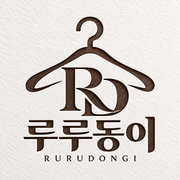
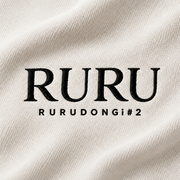
루루동이 자동 안내 — 닉네임 「루루동이」(AI 표시는 배지로)·프로필 사진 RURU 자수 로고 · 앱 아이콘(홈 화면·탭·애플) RURU 로고로, 파일 이름 바꿔 설치한 폰도 새 아이콘 받게
Claude-Session: https://claude.ai/code/session_01TQMBEC9h6c1TahmvDRkCND

diff --git a/app/manifest.ts b/app/manifest.ts
@@ -4,6 +4,7 @@ import type { MetadataRoute } from "next";
 //   근거: MDN 「Define your app icons」 + web app manifest 스펙 + evilmartians 「How to Favicon in 2026」(직접 확인).
 //   아이콘 파일은 app/ 폴더 규칙(favicon.ico · icon.svg · apple-icon.png)으로 자동 연결되고,
 //   [2026-10-23 사장님] 홈 화면 아이콘 = 새 루루동이 로고(옷걸이 RD·종이 바탕). 192/512/maskable(안전영역 82%)·apple-icon 180·favicon 모두 같은 그림.
+//   [2026-11-10 사장님] 아이콘 = RURU 자수 로고(RURUDONGi#2). 파일 이름을 icon-v2-* 로 바꿔 크롬이 «바뀐 아이콘»으로 알아보게.
 //   이미 추가한 손님: 안드로이드 크롬은 며칠 안에 새 아이콘으로 자동 갱신, 아이폰은 지우고 다시 추가해야 바뀐다.
 export default function manifest(): MetadataRoute.Manifest {
   return {
@@ -26,15 +27,15 @@ export default function manifest(): MetadataRoute.Manifest {
     theme_color: "#FFFFFF",
     categories: ["shopping"],
     icons: [
-      { src: "/icon-192.png", sizes: "192x192", type: "image/png", purpose: "any" },
-      { src: "/icon-512.png", sizes: "512x512", type: "image/png", purpose: "any" },
-      { src: "/icon-maskable-512.png", sizes: "512x512", type: "image/png", purpose: "maskable" },
+      { src: "/icon-v2-192.png", sizes: "192x192", type: "image/png", purpose: "any" },
+      { src: "/icon-v2-512.png", sizes: "512x512", type: "image/png", purpose: "any" },
+      { src: "/icon-v2-maskable-512.png", sizes: "512x512", type: "image/png", purpose: "maskable" },
     ],
     // 홈 화면 아이콘을 길게 누르면 나오는 바로가기
     shortcuts: [
-      { name: "주문하기", short_name: "주문", url: "/order", icons: [{ src: "/icon-192.png", sizes: "192x192" }] },
-      { name: "주문조회", short_name: "주문조회", url: "/myorder", icons: [{ src: "/icon-192.png", sizes: "192x192" }] },
-      { name: "공지·쪽지", short_name: "공지", url: "/notice", icons: [{ src: "/icon-192.png", sizes: "192x192" }] },
+      { name: "주문하기", short_name: "주문", url: "/order", icons: [{ src: "/icon-v2-192.png", sizes: "192x192" }] },
+      { name: "주문조회", short_name: "주문조회", url: "/myorder", icons: [{ src: "/icon-v2-192.png", sizes: "192x192" }] },
+      { name: "공지·쪽지", short_name: "공지", url: "/notice", icons: [{ src: "/icon-v2-192.png", sizes: "192x192" }] },
     ],
   };
 }

diff --git a/components/customer/KakaoExternalOpen.tsx b/components/customer/KakaoExternalOpen.tsx
@@ -124,7 +124,7 @@ export default function KakaoExternalOpen() {
       <div role="dialog" aria-modal="true" aria-label="루루동이 앱 설치" style={{ position: "fixed", inset: 0, zIndex: 200, background: "rgba(0,0,0,0.5)", display: "flex", alignItems: "flex-end", justifyContent: "center", fontFamily: "inherit" }}>
         <div style={{ width: "100%", maxWidth: "480px", boxSizing: "border-box", background: "#FFFFFF", color: "#111111", borderRadius: "20px 20px 0 0", padding: "24px 16px calc(20px + env(safe-area-inset-bottom))", display: "flex", flexDirection: "column", alignItems: "center", gap: "12px", textAlign: "center" }}>
           {/* eslint-disable-next-line @next/next/no-img-element */}
-          <img src="/icon-192.png" alt="" width={64} height={64} style={{ borderRadius: "16px" }} />
+          <img src="/icon-v2-192.png" alt="" width={64} height={64} style={{ borderRadius: "16px" }} />
           <div style={{ fontSize: "20px", fontWeight: 700 }}>루루동이 앱 설치</div>
           {isIos ? (
             <div style={{ fontSize: "15px", color: "#707072", lineHeight: 1.6 }}>아래 가운데 <b style={{ color: "#111111" }}>공유 버튼(네모에 위 화살표)</b>을 누르고<br /><b style={{ color: "#111111" }}>「홈 화면에 추가」</b>를 눌러 주세요.</div>

diff --git a/components/customer/LiveWatchView.tsx b/components/customer/LiveWatchView.tsx
@@ -645,7 +645,7 @@ export default function LiveWatchView(props: Props) {
                 {/* 유튜브처럼 [사진][닉네임 · 표시 · 글] — 글이 길어 다음 줄로 가면 사진 밑이 아니라 닉네임 시작 자리에 맞춰 내려감.
                     상자 없이 글자만 — 닉네임과 글은 같은 색(사람마다 정해진 색, 바로 위 다른 사람과는 절대 같은 색 안 됨).
                     관리자는 글 줄을 길게 누르면 관리 창(고정은 왕관 두 사람만) */}
-                <ChatAvatar src={m.badge === "bot" ? "/icon-192.png" : m.avatar} nick={m.nickname} color={color} />
+                <ChatAvatar src={m.badge === "bot" ? "/ruru-ai-avatar.png" : m.avatar} nick={m.nickname} color={color} />
                 <span style={{ minWidth: 0, flex: 1 }}>
                   <span style={{ fontWeight: 800 }}>{m.nickname}</span>
                   <ChatBadge badge={m.badge} />

diff --git a/lib/liveChatBot.ts b/lib/liveChatBot.ts
@@ -8,7 +8,7 @@ import { cleanProductNameForFeed } from "@/lib/feedText";
 
 
 export const LIVE_CHAT_BOT_KEY = "live_chat_bot_v1";
-export const LIVE_CHAT_BOT_NICK = "루루동이AI";
+export const LIVE_CHAT_BOT_NICK = "루루동이";
 /** 봇 글의 kakao_id 자리(진짜 손님 계정과 안 겹침) */
 export const LIVE_CHAT_BOT_KAKAO = "bot:ruru";
 /** 같은 상품·같은 답은 이 시간 안에 다시 안 올림(도배 방지) */
